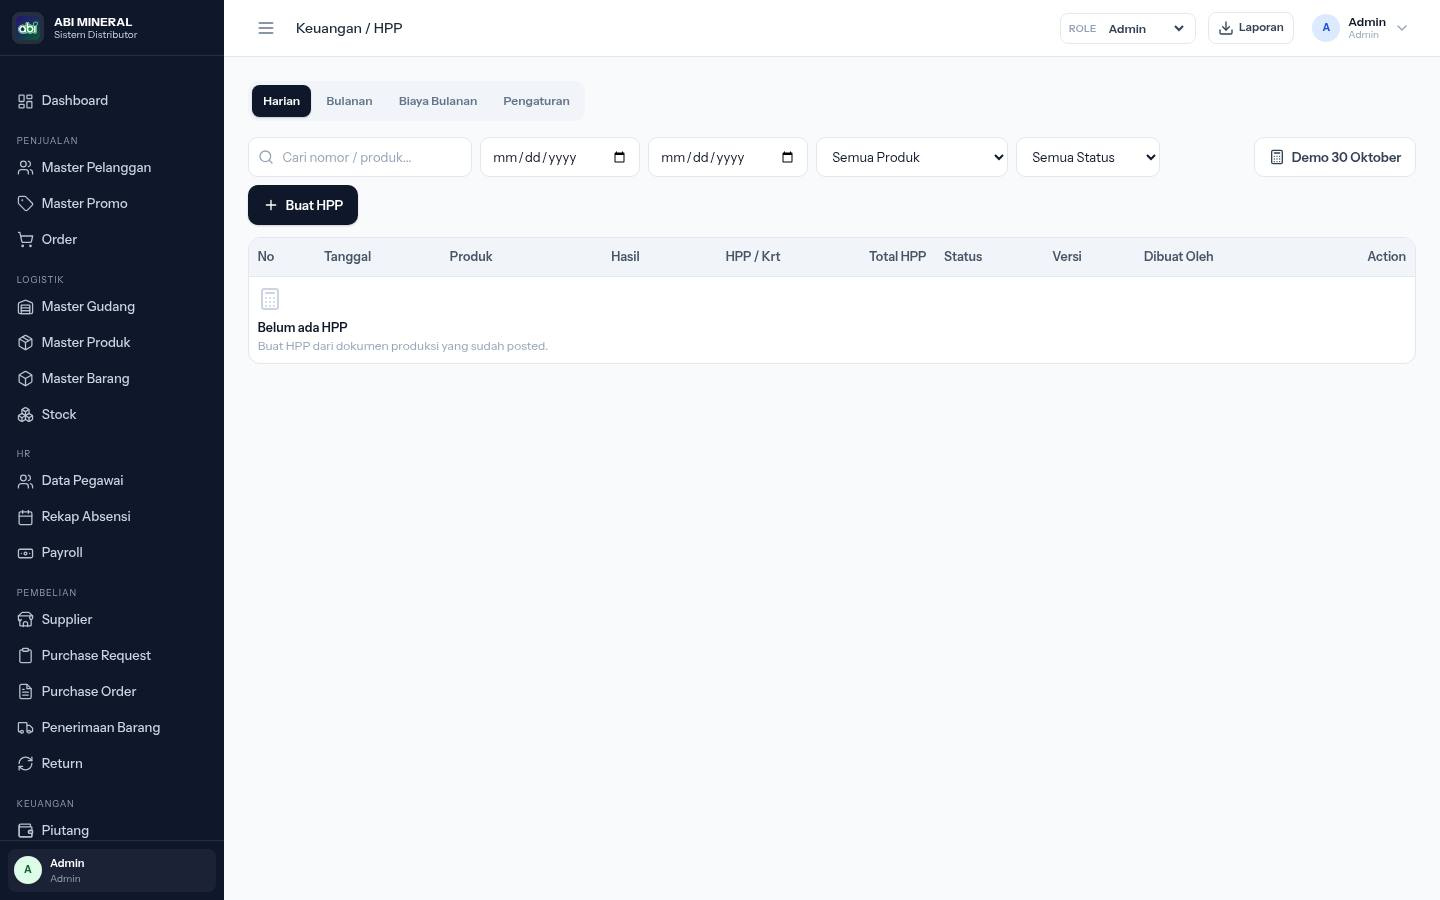
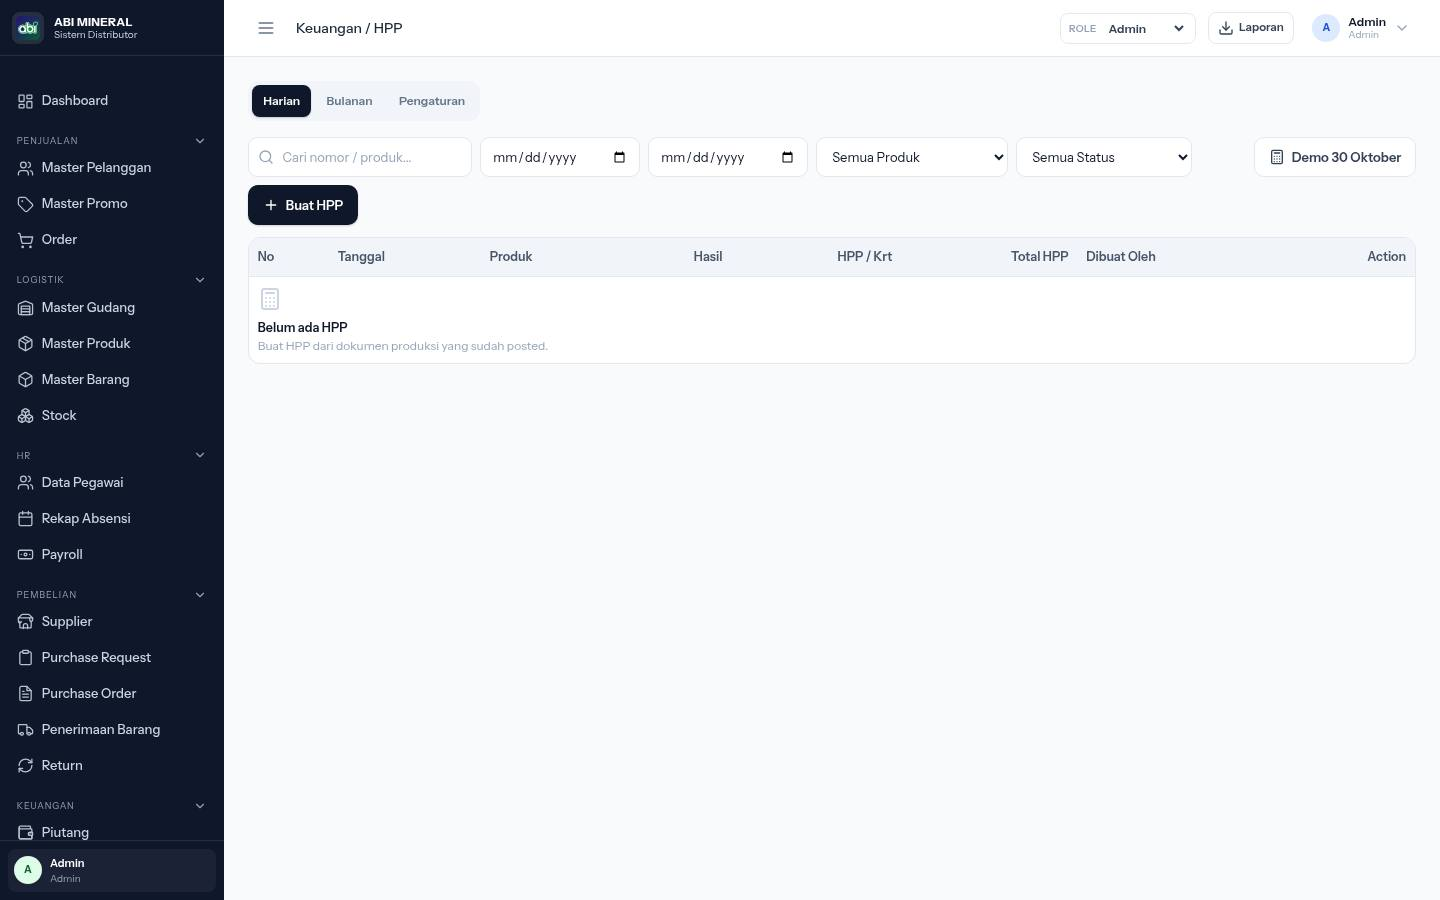
feat: simplify HPP daily status badge

diff --git a/index.html b/index.html
@@ -2465,29 +2465,27 @@
             <input type="date" class="input w-40" x-model="hppDateFrom" title="Dari tanggal">
             <input type="date" class="input w-40" x-model="hppDateTo" title="Sampai tanggal">
             <select class="select w-48" x-model="hppProduct"><option value="">Semua Produk</option><template x-for="product in products" :key="product.id"><option :value="product.id" x-text="product.name"></option></template></select>
-            <select class="select w-36" x-model="hppStatus"><option value="">Semua Status</option><option value="draft">Draft</option><option value="final">Final</option><option value="superseded">Digantikan</option></select>
+            <select class="select w-44" x-model="hppStatus"><option value="">Semua Status</option><option value="draft">Draft</option><option value="pending">Belum disetujui</option><option value="done">Selesai</option></select>
             <button class="btn btn-outline ml-auto" x-show="hppDemoAvailable" @click="startHppDemo()"><svg class="icon icon-sm"><use href="#i-calculator"></use></svg> Demo 30 Oktober</button>
             <button class="btn btn-primary" @click="startHppCreate()"><svg class="icon icon-sm"><use href="#i-plus"></use></svg> Buat HPP</button>
           </div>
           <div class="table-wrap">
             <table class="data-table">
-              <thead><tr><th>No</th><th>Tanggal</th><th>Produk</th><th class="num">Hasil</th><th class="num">HPP / Krt</th><th class="num">Total HPP</th><th>Status</th><th>Versi</th><th>Dibuat Oleh</th><th class="actions">Action</th></tr></thead>
+              <thead><tr><th>No</th><th>Tanggal</th><th>Produk</th><th class="num">Hasil</th><th class="num">HPP / Krt</th><th class="num">Total HPP</th><th>Dibuat Oleh</th><th class="actions">Action</th></tr></thead>
               <tbody>
                 <template x-for="row in hppFilteredList" :key="row.id">
                   <tr>
-                    <td><button class="font-semibold text-blue-600 hover:underline" @click="viewHpp(row)" x-text="row.code"></button></td>
+                    <td><div class="flex flex-wrap items-center gap-2"><button class="font-semibold text-blue-600 hover:underline" @click="viewHpp(row)" x-text="row.code"></button><span class="badge" :class="hppHarianStatusBadge(row)" x-text="hppHarianStatusLabel(row)"></span></div></td>
                     <td x-text="dateShort(row.date)"></td>
                     <td><div class="font-semibold" x-text="productName(row.productId)"></div><span class="sub" x-text="fmt(row.outputQty) + ' Krt'"></span></td>
                     <td class="num" x-text="fmt(row.outputQty) + ' Krt'"></td>
                     <td class="num font-semibold" x-text="rp2(row.hppPerDus)"></td>
                     <td class="num" x-text="rp(row.totalHpp)"></td>
-                    <td><span class="badge" :class="hppStatusBadge(row.status)" x-text="hppStatusLabel(row.status)"></span><span x-show="row.appliedAt" class="badge badge-green ml-1">Harga modal</span></td>
-                    <td><span class="badge badge-slate" x-text="'v' + row.version"></span></td>
                     <td x-text="row.createdBy"></td>
                     <td class="actions"><button class="icon-btn icon-btn-sm" @click.stop="openActionMenu($event, 'hpp', row)" title="Aksi"><svg class="icon icon-sm"><use href="#i-more"></use></svg></button></td>
                   </tr>
                 </template>
-                <tr x-show="hppFilteredList.length === 0"><td colspan="10"><div class="empty"><svg class="icon icon-lg text-slate-300"><use href="#i-calculator"></use></svg><div class="font-semibold mt-2">Belum ada HPP</div><div class="text-xs text-slate-400">Buat HPP dari dokumen produksi yang sudah posted.</div></div></td></tr>
+                <tr x-show="hppFilteredList.length === 0"><td colspan="8"><div class="empty"><svg class="icon icon-lg text-slate-300"><use href="#i-calculator"></use></svg><div class="font-semibold mt-2">Belum ada HPP</div><div class="text-xs text-slate-400">Buat HPP dari dokumen produksi yang sudah posted.</div></div></td></tr>
               </tbody>
             </table>
           </div>
@@ -5410,7 +5408,7 @@
 <input type="file" id="import-file" accept="application/json,.json" class="hidden" @change="handleImport($event)">
 
 <script src="assets/vendor/xlsx.full.min.js"></script>
-<script src="assets/app.js?v=20261124a"></script>
+<script src="assets/app.js?v=20261124b"></script>
 <script defer src="assets/vendor/alpine.min.js"></script>
 </body>
 </html>

diff --git a/assets/app.js b/assets/app.js
@@ -6201,13 +6201,27 @@ function app() {
     get hppFilteredList() {
       const q = String(this.hppSearch || '').toLowerCase();
       return (this.hppHarian || []).filter(row => {
+        if (row.status === 'superseded') return false;
         if (q && !(row.code + ' ' + this.productName(row.productId)).toLowerCase().includes(q)) return false;
-        if (this.hppStatus && row.status !== this.hppStatus) return false;
+        if (this.hppStatus && this.hppDisplayStatus(row) !== this.hppStatus) return false;
         if (this.hppProduct && row.productId !== this.hppProduct) return false;
         if (this.hppDateFrom && row.date < this.hppDateFrom) return false;
         if (this.hppDateTo && row.date > this.hppDateTo) return false;
         return true;
       }).sort((a, b) => String(b.date).localeCompare(String(a.date)) || String(b.code).localeCompare(String(a.code)));
+    },
+    hppDisplayStatus(row) {
+      if (!row) return 'draft';
+      if (row.status === 'draft') return 'draft';
+      if (row.status === 'final') return row.appliedAt ? 'done' : 'pending';
+      if (row.status === 'superseded') return 'superseded';
+      return row.status;
+    },
+    hppHarianStatusLabel(row) {
+      return { draft:'Draft', pending:'Belum disetujui', done:'Selesai', superseded:'Digantikan' }[this.hppDisplayStatus(row)] || 'Draft';
+    },
+    hppHarianStatusBadge(row) {
+      return { draft:'badge-slate', pending:'badge-yellow', done:'badge-green', superseded:'badge-stone' }[this.hppDisplayStatus(row)] || 'badge-slate';
     },
     hppStatusLabel(status) { return { draft:'Draft', final:'Final', superseded:'Digantikan' }[status] || status; },
     hppStatusBadge(status) { return { draft:'badge-slate', final:'badge-green', superseded:'badge-stone' }[status] || 'badge-slate'; },

diff --git a/app-docs.md b/app-docs.md
@@ -221,6 +221,7 @@ Aturan utama:
 - **Harga master bahan Abi Mineral 220ml (CUP)** mengikuti sheet client: CUP 132, LID 39, STRAW 15, BOX 3.309, LAKBAN 31. **Isi Data Dummy** menyetel ulang harga tersebut dan memakai harga yang sama pada PO dummy.
 - **Skenario demo 30 Oktober**: produksi 1.515 Krt tanpa pergerakan stok; tombol **Demo 30 Oktober** di tab HPP Harian langsung membuka form dengan tanggal 30 Oktober 2026, produk ABI-0001, bonus 32 dus, periode biaya Oktober, dan harga bahan dari master (tanpa override). Memilih tanggal/produk yang sama secara manual juga mengisi otomatis.
 - Satu HPP final per tanggal + produk.
+- Daftar HPP Harian memakai satu badge status: **Draft**, **Belum disetujui** (final lama yang belum diterapkan ke harga modal), dan **Selesai**. Kolom Versi dan Status terpisah dihapus; versi lama tidak ditampilkan di daftar.
 - Revisi membuat versi baru dan menandai versi lama **Digantikan**.
 - Draft boleh dihitung ulang dari data sumber; harga override dan penyusutan dipertahankan.
 - Final mengunci snapshot. Modal finalisasi menampilkan ringkasan detail dan **langsung menerapkan HPP ke harga modal** dengan pembulatan rupiah; tidak ada langkah Terapkan ke Harga Modal terpisah.
